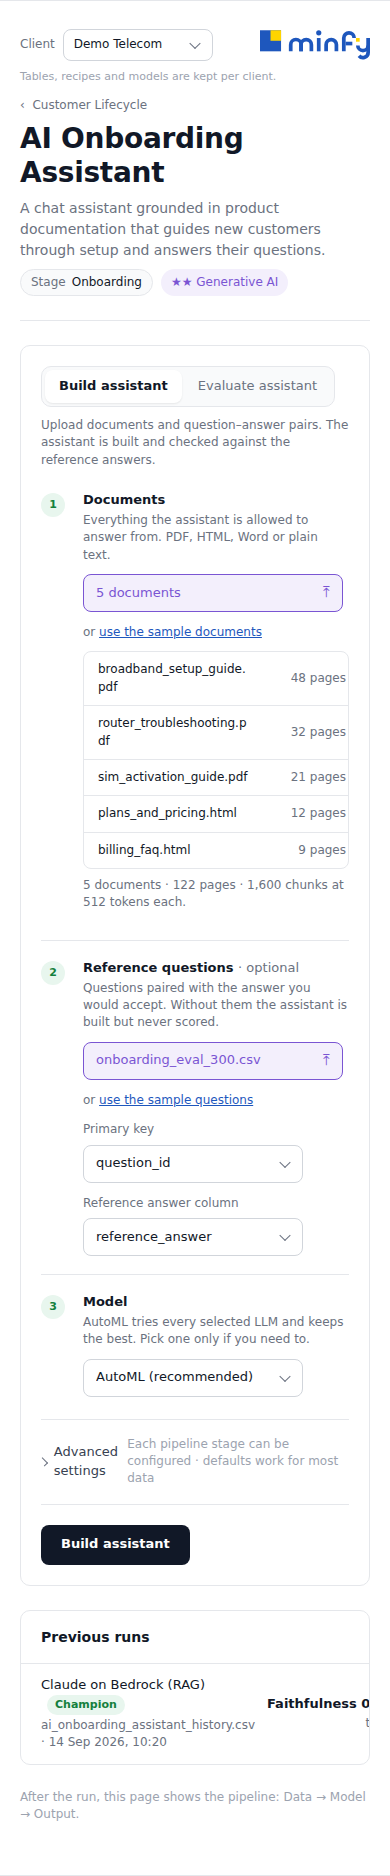
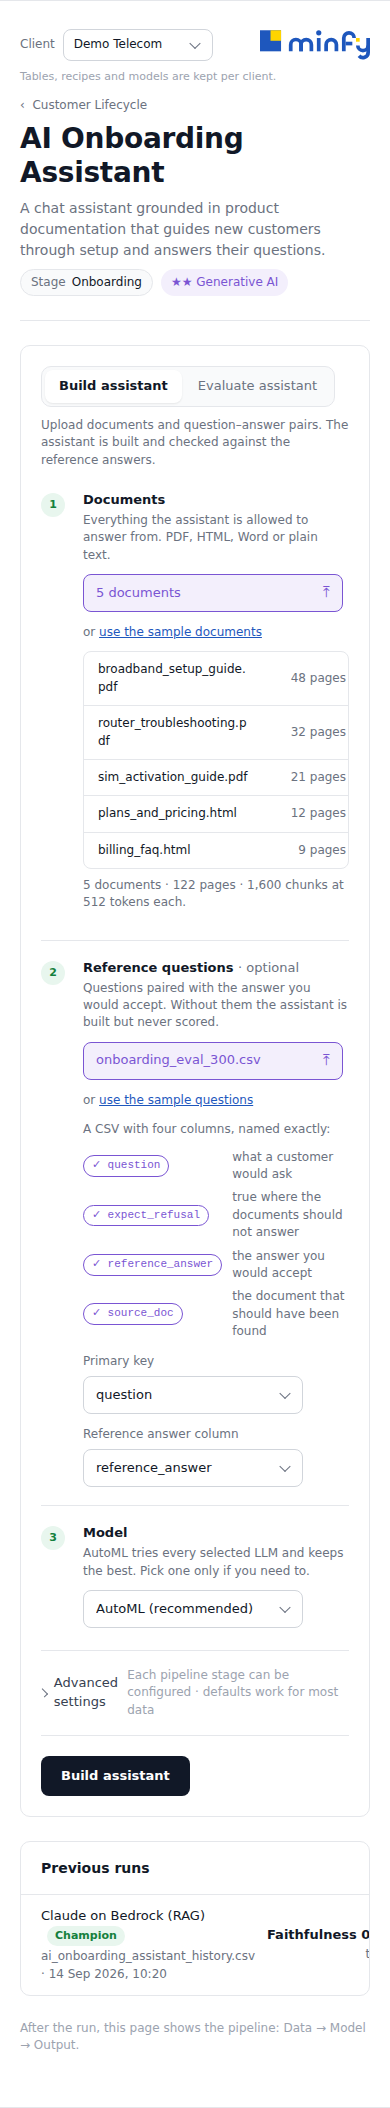
Prototype: the reference set the API accepts, and the threshold it grades at
The API review made the assistant's reference set strict: four columns -
question, expect_refusal, reference_answer, source_doc - and a 422 naming
the first one missing, checked on upload (DATA_CONTRACT.md 8.2). The
prototype still showed three columns keyed on question_id, so a team copying
it would have designed a flow the API refuses. It also showed an 85% pass
threshold; the product's default is 75%.

- The sample reference set is now the downloadable template, column for
  column, and its first column is the key, as the built Setup screen assumes.
- Step 2 lists the four columns and what each holds before anything is
  uploaded, so the 422 is avoidable rather than merely reported. The built
  screen only shows the error afterwards; the prototype leads here.
- A real upload is read on arrival and checked the way the API checks it:
  same columns, same order, same wording ("The reference set is missing the
  expect_refusal column."). Evaluate mode checks its test questions the same
  way, and now uses the reference-set handler instead of the predictive file
  handler, which never cleared its blocker for a real upload.
- The pass threshold is a setting in Advanced -> Evaluation, default 75.
- The results say which side of the threshold the run landed, and a failing
  run is drawn red. The built bar is always green, so a 60% run against a
  75% threshold reads as a pass there; the prototype leads here too.
[…]

diff --git a/marketing-ai-prototype.html b/marketing-ai-prototype.html
@@ -486,6 +486,11 @@ details.cite .quote{margin-top:8px;padding:10px 12px;border-left:3px solid var(-
 .approver{padding:0 20px 14px}
 .approver .field{width:280px;max-width:100%}
 .segshare{font-size:12px;color:var(--muted)}
+.refcols{display:grid;grid-template-columns:auto minmax(0,1fr);gap:6px 10px;align-items:center;margin:10px 0 2px;font-size:12px;color:var(--muted)}
+.refcols .colchip{justify-self:start}
+.referr{margin-top:10px;padding:10px 12px;border-radius:8px;background:var(--bad-t);color:var(--bad);font-size:12px}
+.ebverdict{font-size:12px;margin-top:8px;font-weight:500}
+.ebverdict.ok{color:var(--ok)}.ebverdict.bad{color:var(--bad)}
 .docrow{display:grid;grid-template-columns:minmax(150px,1fr) 88px 96px;gap:10px;align-items:center;padding:9px 14px;border-top:1px solid var(--line);font-size:12px}
 .docrow:first-child{border-top:0}
 .docrow .dn{font-weight:500;color:var(--ink);overflow-wrap:anywhere}
@@ -932,7 +937,15 @@ const DOCS=[["broadband_setup_guide.pdf",48,612],["router_troubleshooting.pdf",3
  ["sim_activation_guide.pdf",21,264],["plans_and_pricing.html",12,188],["billing_faq.html",9,126]];
 const DOC_PAGES=122, DOC_CHUNKS="1,600";
 const QA_FILE={name:"onboarding_eval_300.csv",pairs:300};
-const EVAL={pass:91,threshold:85};
+const EVAL={pass:91};
+/* generative.reference_set.pass_threshold: 0.75 in configs/engine.yaml */
+const PASS_THRESHOLD_DEFAULT=75;
+/* The columns a reference set must carry (DATA_CONTRACT.md §8.2), in the order
+   api/routes/generative.py checks them, so a missing one is named exactly as its 422 names it. */
+const REF_COLUMNS=["question","expect_refusal","reference_answer","source_doc"];
+const REF_MEANS={question:"what a customer would ask",expect_refusal:"true where the documents should not answer",
+  reference_answer:"the answer you would accept",source_doc:"the document that should have been found"};
+const refInvalid=c=>`The reference set is missing the ${c} column.`;
 const WORST10=[
  ["Can I keep my number if I move to another state?","0.31","Nothing in the documents covers moving a number between states."],
  ["Why was I charged twice in March?","0.38","Needs the customer's own bill. The answer came from the general FAQ."],
@@ -974,10 +987,11 @@ function assistantResults(u){const s=st(u);
   const idx=[["Documents",`${DOCS.length}`],["Pages",String(DOC_PAGES)],["Text chunks",DOC_CHUNKS],
     ["Embedding model",s.adv.embed],["Index","OpenSearch Serverless"],[`Retrieval`,`top-${s.adv.topk}${s.adv.hybrid?" · hybrid":""}`],
     ["When nothing is found",s.adv.refusal||REFUSAL]];
-  const w=Math.round(EVAL.pass), tm=EVAL.threshold;
+  const w=Math.round(EVAL.pass), tm=s.adv.passThr, ok=EVAL.pass>=tm, n=(s.qa&&s.qa.pairs)||QA_FILE.pairs;
   const bar=`<div class="evalbar"><div class="ebv">${EVAL.pass}% passed</div>
-    <div class="eb"><i style="width:${w}%"></i><span class="ebm" style="left:${tm}%"></span></div>
-    <div class="ebl"><span>${QA_FILE.pairs} reference questions</span><span>Threshold ${tm}%</span></div></div>`;
+    <div class="eb"><i style="width:${w}%;background:var(${ok?"--ok":"--bad"})"></i><span class="ebm" style="left:${tm}%"></span></div>
+    <div class="ebl"><span>${esc(String(n))} reference questions</span><span>Threshold ${tm}%</span></div>
+    <div class="ebverdict ${ok?"ok":"bad"}">${ok?`Passes the ${tm}% threshold.`:`Below the ${tm}% threshold.`}</div></div>`;
   const bubble=x=>`<div class="bubble q">${esc(x.q)}</div>
     <div class="bubble a${x.refused?" refused":""}">${esc(x.a)}
       ${x.cites.length?`<div class="cites">${x.cites.map(([l,sim,q])=>`<details class="cite"><summary>${esc(l)} <span class="gsim">sim ${sim.toFixed(2)}</span></summary><div class="quote">${esc(q)}</div></details>`).join("")}</div>`:`<div class="cites"><span class="evchip">no document matched</span></div>`}
@@ -1166,7 +1180,7 @@ const SETUP = {
 const AUTO="AutoML (recommended)";
 const STATE = {};
 function defaultAdv(cfg){return cfg.gen
-  ? {pii:"Redact",chunk:512,overlap:50,embed:"Titan Text Embeddings v2",topk:5,minsim:0.25,hybrid:true,temp:0.2,maxtok:600,guard:true,refusal:REFUSAL,metric:cfg.metrics[0],judge:"LLM judge + human sample"}
+  ? {pii:"Redact",chunk:512,overlap:50,embed:"Titan Text Embeddings v2",topk:5,minsim:0.25,hybrid:true,temp:0.2,maxtok:600,guard:true,refusal:REFUSAL,metric:cfg.metrics[0],judge:"LLM judge + human sample",passThr:PASS_THRESHOLD_DEFAULT}
   : {missing:"Auto",outliers:"Clip (1st–99th pct)",dedupe:true,leakage:true,pii:"Redact",minpos:500,excl:[],
      split:cfg.timeSplit?"Time-based":"Random (stratified)",test:15,val:15,timeCol:"",groupCol:"",
      autofeat:true,encoding:"Auto",scaling:"Auto",text:"Ignore",fsel:"Importance-based",maxfeat:100,
@@ -1179,7 +1193,7 @@ function st(u){
   if(!STATE[u.id]){const c=SETUP[u.id];
     STATE[u.id]={mode:"train",file:null,cols:[],preview:null,pk:"",target:"",ptype:"",model:AUTO,adv:defaultAdv(c),advOpen:false,view:"setup",current:null,scoreRun:"r1",
       source:"file",docs:null,qa:null,pkExtra:"",pkParts:null,builtFrom:false,recipe:RECIPE,
-      runs:[{id:"r1",at:"14 Sep 2026, 10:20",mode:"train",file:`${u.id.replace(/-/g,"_")}_history.csv`,rows:u.data.kp[0][1],model:AUTO,best:c.best,score:c.score,target:c.target,pk:c.gen?"question_id":"customer_id",champion:true}]};}
+      runs:[{id:"r1",at:"14 Sep 2026, 10:20",mode:"train",file:`${u.id.replace(/-/g,"_")}_history.csv`,rows:u.data.kp[0][1],model:AUTO,best:c.best,score:c.score,target:c.target,pk:c.gen?"question":"customer_id",champion:true}]};}
   return STATE[u.id];
 }
 const fmtSize = b => b<1024?`${b} B`:b<1048576?`${(b/1024).toFixed(1)} KB`:`${(b/1048576).toFixed(1)} MB`;
@@ -1205,17 +1219,25 @@ function blocker(u){const s=st(u),cfg=SETUP[u.id];
   if(s.mode==="score"&&!s.runs.some(r=>r.mode==="train"))return "Train a model first";
   return "";}
 function sampleFile(u){const s=st(u),cfg=SETUP[u.id];const feats=u.data.ft.map(f=>f[0]);
-  const idc=cfg.gen?"question_id":"customer_id";
+  const idc=cfg.gen?"question":"customer_id";
   s.cols=s.mode==="train"?[idc,"snapshot_date",...feats,cfg.target]:[idc,"snapshot_date",...feats];
   s.file={name:`${u.id.replace(/-/g,"_")}_${s.mode==="train"?"history":"this_week"}.csv`,size:"Sample dataset",rows:s.mode==="train"?u.data.kp[0][1]:"12,480",sample:true};
   s.pk=idc;s.target=s.mode==="train"?cfg.target:"";s.preview=null;s.adv.timeCol="snapshot_date";
 }
 function sampleDocs(u){const s=st(u);s.docs=DOCS;
   s.file={name:"product_docs (5 files)",size:`${DOC_PAGES} pages · ${DOC_CHUNKS} chunks`,rows:DOC_CHUNKS,sample:true,docs:true};}
-function sampleQA(u){const s=st(u),train=s.mode==="train";
-  s.qa=train?QA_FILE:{name:"new_test_questions.csv",pairs:120};
-  s.cols=["question_id","question","reference_answer"];s.pk="question_id";s.target=train?"reference_answer":"";
-  if(!train)s.file={name:s.qa.name,size:`${s.qa.pairs} questions`,rows:String(s.qa.pairs),sample:true};}
+function acceptReferenceSet(u,name,cols,rows){const s=st(u),train=s.mode==="train";
+  s.qaError="";s.qa={name,pairs:rows};s.cols=cols;s.pk=cols[0];
+  s.target=train&&cols.includes("reference_answer")?"reference_answer":"";
+  if(!train)s.file={name,size:`${rows} questions`,rows:String(rows),sample:true};}
+/* The same header, in the same order, as templates/ai_onboarding_assistant_template.csv */
+function sampleQA(u){const train=st(u).mode==="train";
+  acceptReferenceSet(u,train?QA_FILE.name:"new_test_questions.csv",
+    ["question","expect_refusal","source_doc","reference_answer"],train?QA_FILE.pairs:120);}
+function refColumnsHtml(s){const have=s.qa?s.cols:[];
+  return `<div class="fhint" style="margin:12px 0 0">A CSV with four columns, named exactly:</div>
+    <div class="refcols">${REF_COLUMNS.map(c=>`<span class="colchip ${have.includes(c)?"t":""}">${have.includes(c)?"✓ ":""}${esc(c)}</span><span>${esc(REF_MEANS[c])}</span>`).join("")}</div>
+    ${s.qaError?`<div class="referr" role="alert">${esc(s.qaError)}</div>`:""}`;}
 function useDataset(u){const s=st(u),o=onb(u);
   const feats=keptFeats(o).map(f=>f.name);
   s.cols=["customer_id","snapshot_date",...feats,labelCol(o)];
@@ -1237,7 +1259,8 @@ function predStep1(u){const s=st(u),o=onb(u),train=s.mode==="train";
 function genStep1(u){const s=st(u);
   if(s.mode!=="train") return `<div class="fstep ${s.qa?"done":""}"><div class="stepno">1</div><div>
     <div class="flabel">Test questions</div><div class="fhint">New questions to run through a saved assistant. One row per question.</div>
-    <div class="orline"><label class="control file ${s.qa?"has":""}"><input type="file" id="f-file" class="sr" accept=".csv,.parquet,.xlsx"><span class="fname">${s.qa?esc(s.qa.name):"Upload CSV or Parquet"}</span><span class="ico" aria-hidden="true">⤒</span></label><span>or <button type="button" class="linkbtn" id="f-sampleqa">use the sample questions</button></span></div>
+    <div class="orline"><label class="control file ${s.qa?"has":""}"><input type="file" id="f-qa" class="sr" accept=".csv"><span class="fname">${s.qa?esc(s.qa.name):"Upload CSV"}</span><span class="ico" aria-hidden="true">⤒</span></label><span>or <button type="button" class="linkbtn" id="f-sampleqa">use the sample questions</button></span></div>
+    ${refColumnsHtml(s)}
     ${s.qa?`<div class="preview"><div class="pv-head"><span><b>${s.qa.pairs}</b> questions</span><span>${esc(s.file?s.file.size:"")}</span></div></div>`:""}</div></div>`;
   return `<div class="fstep ${s.docs?"done":""}"><div class="stepno">1</div><div>
     <div class="flabel">Documents</div><div class="fhint">Everything the assistant is allowed to answer from. PDF, HTML, Word or plain text.</div>
@@ -1250,7 +1273,8 @@ function genStep2(u){const s=st(u);
   return `<div class="fstep ${s.docs?"":"locked"} ${s.qa?"done":""}"><div class="stepno">2</div><div>
     <div class="flabel">Reference questions <span style="font-weight:400;color:var(--muted)">· optional</span></div>
     <div class="fhint">Questions paired with the answer you would accept. Without them the assistant is built but never scored.</div>
-    <div class="orline"><label class="control file ${s.qa?"has":""}"><input type="file" id="f-qa" class="sr" accept=".csv,.parquet,.xlsx"><span class="fname">${s.qa?esc(s.qa.name):"Upload CSV or Parquet"}</span><span class="ico" aria-hidden="true">⤒</span></label><span>or <button type="button" class="linkbtn" id="f-sampleqa">use the sample questions</button></span></div>
+    <div class="orline"><label class="control file ${s.qa?"has":""}"><input type="file" id="f-qa" class="sr" accept=".csv"><span class="fname">${s.qa?esc(s.qa.name):"Upload CSV"}</span><span class="ico" aria-hidden="true">⤒</span></label><span>or <button type="button" class="linkbtn" id="f-sampleqa">use the sample questions</button></span></div>
+    ${refColumnsHtml(s)}
     ${s.qa?`<div class="frow" style="margin-top:12px"><div class="field"><span class="sub">Primary key</span><div class="control sel"><select id="f-pk">${opt(s.cols,s.pk,"Select a column…")}</select></div></div><div class="field"><span class="sub">Reference answer column</span><div class="control sel"><select id="f-target">${opt(s.cols.filter(c=>c!==s.pk),s.target,"Select a column…")}</select></div></div></div>`:`<div class="fhint" style="margin-top:10px">No reference questions yet. The assistant will be built but not scored.</div>`}</div></div>`;}
 function previewHtml(u){const s=st(u);if(!s.file)return "";
   const showCols=s.cols.slice(0,6), more=s.cols.length-showCols.length;
@@ -1270,7 +1294,7 @@ function stagesHtml(u){CUR=u;const s=st(u),cfg=SETUP[u.id],a=s.adv;
     ${stage(1,"Documents",`${a.chunk}-token chunks · ${a.overlap} overlap · PII: ${a.pii}`,`<div class="frow">${num("chunk","Chunk size (tokens)",64,128,2048)}${num("overlap","Overlap (tokens)",10,0,200)}${sel("pii",["Redact","Drop rows","Keep"],"PII handling")}</div>`)}
     ${stage(2,"Retrieval",`${a.embed} · top-${a.topk}${a.hybrid?" · hybrid search":""} · floor ${a.minsim}`,`<div class="frow">${sel("embed",["Titan Text Embeddings v2","Cohere Embed v3"],"Embedding model")}${num("topk","Top-k chunks",1,1,20)}${num("minsim","Minimum similarity",0.05,0,1)}${chk("hybrid","Hybrid (keyword + vector) search")}</div><p class="obhint" style="padding:0 16px 4px 52px">Below the minimum similarity nothing is retrieved and the answer is the refusal message instead of a guess.</p>`)}
     ${stage(3,"Generation",`temperature ${a.temp} · ${a.maxtok} tokens${a.guard?" · guardrails on":""} · refusal message set`,`<div class="frow">${num("temp","Temperature",0.1,0,1)}${num("maxtok","Max answer tokens",50,100,2000)}${chk("guard","Bedrock Guardrails (PII, topics, tone)")}${txt("refusal","When nothing relevant is found, reply","Sent instead of a guess. Keep it short and say what happens next.")}</div>`)}
-    ${stage(4,"Evaluation",`${a.metric} · ${a.judge}`,`<div class="frow">${sel("metric",cfg.metrics,"Primary metric")}${sel("judge",["LLM judge + human sample","LLM judge only","Human review only"],"Grading method")}</div>`)}
+    ${stage(4,"Evaluation",`${a.metric} · ${a.judge} · pass at ${a.passThr}%`,`<div class="frow">${sel("metric",cfg.metrics,"Primary metric")}${sel("judge",["LLM judge + human sample","LLM judge only","Human review only"],"Grading method")}${num("passThr","Pass threshold (%)",5,0,100)}</div><p class="obhint" style="padding:0 16px 4px 52px">The share of reference questions that must pass for the build to count as passing.</p>`)}
   </div>`;
   const timeCols=s.cols.filter(c=>/date|time|month|week|day|ts$/i.test(c));
   const featCols=s.cols.filter(c=>c!==s.pk&&c!==s.target&&!(s.pkParts||[]).includes(c));
@@ -1353,7 +1377,7 @@ function runSteps(u){const s=st(u),cfg=SETUP[u.id],a=s.adv;
        ["Redacting personal data",`PII: ${a.pii.toLowerCase()} · duplicate chunks removed (4%)`],
        ["Creating embeddings",`${a.embed} · ${DOC_CHUNKS} vectors`],
        ["Building the retrieval index",`OpenSearch Serverless · top-${a.topk}${a.hybrid?" hybrid":""}`],
-       ...(s.qa?[["Answering the reference questions",`${s.qa.pairs} questions · ${a.judge.toLowerCase()}`],["Grading the answers",`${cfg.score} · ${EVAL.pass}% passed, threshold ${EVAL.threshold}%`]]:[]),
+       ...(s.qa?[["Answering the reference questions",`${s.qa.pairs} questions · ${a.judge.toLowerCase()}`],["Grading the answers",`${cfg.score} · ${EVAL.pass}% passed, threshold ${a.passThr}%`]]:[]),
        ["Saving assistant version",s.qa?"Set as champion":"Saved without a score"]]
     : [["Validating data",`${a.leakage?"No leakage found · ":""}${u.data.q[0][1]}${a.excl.length?` · ${a.excl.length} columns excluded`:""}${a.consentCol?" · consent filter applied":""}`],["Preparing features",`${u.data.kp[1][1]} features · ${a.split==="Time-based"?"time-based":"stratified"} split${a.groupCol?" · grouped by "+a.groupCol:""} · ${a.val}/${a.test}% val/test`],[s.model===AUTO?`Training ${a.algos.length} candidate models (${a.strategy.toLowerCase()})`:`Training ${s.model}`,`${a.trials} trials · ${a.folds}-fold CV · best: ${s.model===AUTO?cfg.best:s.model}${a.ensemble&&s.model===AUTO?" (ensembled)":""}`],["Evaluating on hold-out set",`${cfg.score} · optimised for ${a.metric} · ${a.calib.toLowerCase()} calibration${a.fair?" · fairness by "+a.fair+": passed":""}`],[a.shap?"Generating explanations & saving":"Saving model",`${a.shap?`top ${a.reasons} SHAP reasons · `:""}${a.approval?"awaiting approval as champion":"set as champion"} · drift baseline stored`]];
   return cfg.gen
@@ -1423,8 +1447,13 @@ function bindDetail(u){
     s.docs=fs.map(f=>[f.name,"—","—"]);
     s.file={name:`${fs.length} document${fs.length>1?"s":""}`,size:"—",rows:"—",sample:false,docs:true};rerender(u);});
   on("f-qa","change",e=>{const f=e.target.files[0];if(!f)return;
-    s.qa={name:f.name,pairs:"—"};s.cols=["question_id","question","reference_answer"];s.pk="question_id";
-    if(s.mode==="train")s.target="reference_answer";rerender(u);});
+    f.slice(0,262144).text().then(t=>{
+      const lines=t.replace(/^/,"").split(/\r?\n/).filter(l=>l.trim());
+      const cols=parseLine(lines[0]||"").filter(Boolean);
+      const missing=REF_COLUMNS.find(c=>!cols.includes(c));
+      if(missing){s.qa=null;s.cols=[];s.pk="";s.target="";s.qaError=refInvalid(missing);if(s.mode!=="train")s.file=null;}
+      else acceptReferenceSet(u,f.name,cols,Math.max(0,lines.length-1));
+      rerender(u);}).catch(()=>{s.qaError="The file could not be read.";rerender(u);});});
   /* onboarding panel */
   const o=onb(u);
   document.querySelectorAll("[data-ob-open]").forEach(b=>b.addEventListener("click",()=>{
